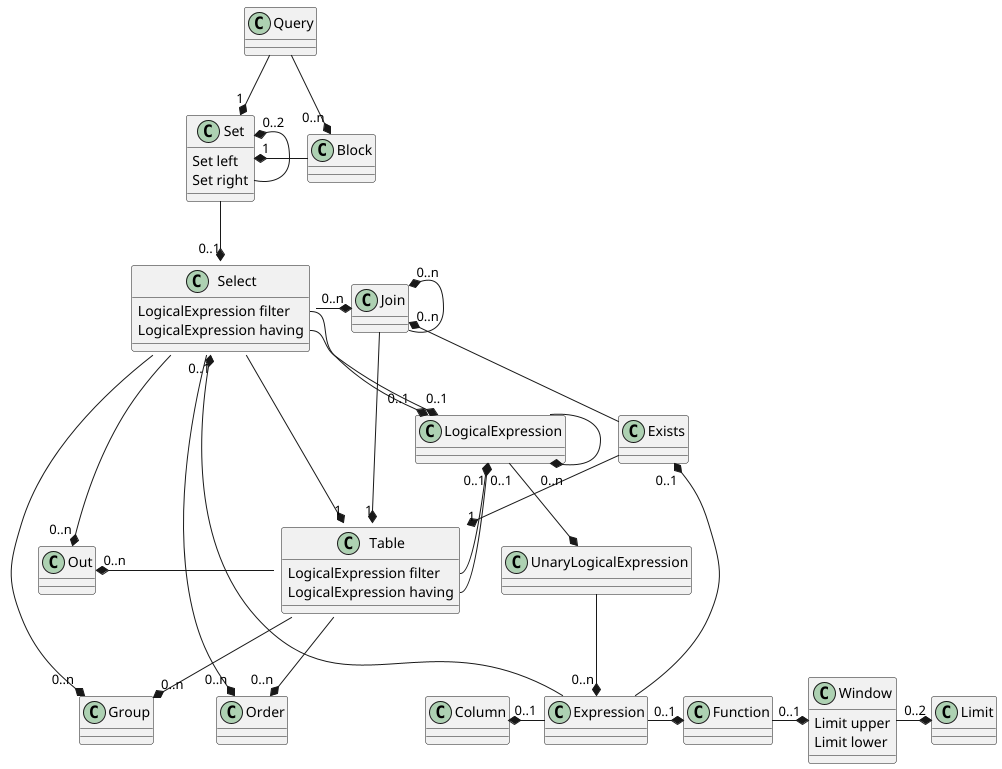
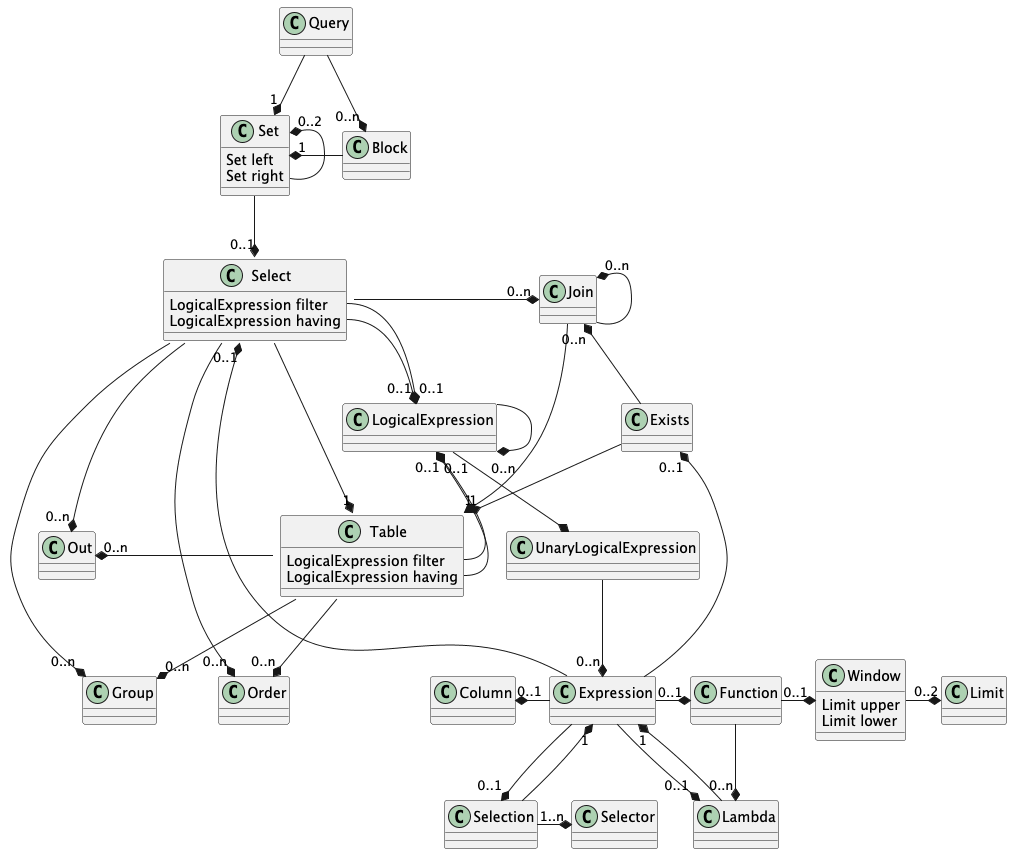
docs: selectors and lambdas in the KQL reference, the language guide and the IQL notes
KQL_EBNF gets the selector and lambda rules and the updated expression and argument rules,
LANGUAGE.md a section on reaching into nested values, IQL.md the Selection, Selector and
Lambda beans and how typing, validation and rendering share the selector chain. Railroad
diagrams and the intermediate model diagram are regenerated.

diff --git a/docs/IQL.md b/docs/IQL.md
@@ -87,6 +87,9 @@ Query
 | `LogicalExpression` | A boolean expression tree (AND/OR/NOT/predicate) |
 | `UnaryLogicalExpression` | A leaf predicate (`left op right`, `EXISTS`, or parenthesised group) |
 | `Function` | A function call with arguments and an optional `Window` definition |
+| `Selection` | A postfix selector chain on an expression: a `base` and its `Selector`s (`t.items@1@sku`) |
+| `Selector` | One step of a selection: a position (`index`), a range (`from`/`to`), or a name (`id`, `name`) |
+| `Lambda` | The parameters and the body of a lambda argument; only ever an argument of a `Function` |
 | `Out` / `Group` / `Order` | SELECT list item / GROUP BY item / ORDER BY item |
 
 Every bean created by `IQL2Bean` is registered in a `Map<Object, RuleContext>` that maps each bean back to its source parse-tree node. This allows all downstream stages (validation, SQL rendering) to produce error messages with precise source-text locations.
@@ -192,12 +195,36 @@ Semantic validation is run after bean construction and before SQL generation. `V
 
 **`FunctionValidator`** — detects structurally invalid expressions: an expression that simultaneously contains an aggregate function (e.g., `SUM`, `COUNT`) and a raw column reference is flagged, as this cannot be correctly classified as either a SELECT item or a HAVING predicate.
 
+**`SelectorValidator`** and **`LambdaValidator`** — check selector chains against the type of the value they select from, and lambda parameters, arity and body against the function that takes them (see [Nested values](#nested-values-selections-and-lambdas)).
+
 **`SchemaValidator`** — verifies all names referenced in the query exist in the configured model/schema:
 - Each `Source` name must correspond to a known entity or a declared CTE block ID
 - Each `Field` alias must refer to a `Source` that is visible in the current scope
 - Each `Field` attribute name must match either a known model attribute or an `OUT` header declared in the referenced entity/CTE
 
 Both validators produce `Violation` objects that carry the offending bean, its source-text `Range`, a human-readable message, and optionally a second `Range` pointing to a related definition. Any violations cause `ValidateException` to be thrown.
+
+
+### Nested values: selections and lambdas
+
+A selector chain is an `Expression` with a `Selection`; a lambda is an `Expression` with a `Lambda`; a
+lambda parameter in a body is an `Expression` with a `parameter`. `KQLQueryMapper` decides by the
+lambda scopes around a bare name whether it is a parameter or an alias (`count(o)`), and refuses a
+parameter named like an alias in sight.
+
+What a step means depends on the type it meets, which the grammar cannot know. `typing/Selectors`
+follows a chain through a `TypeDescriptor` (ARRAY, STRUCT, MAP, JSON) and is used by three consumers:
+`SelectorValidator` reports a step that does not fit, `ExpressionTypeResolver` types the result, and
+the renderer hands the chain, with the type of its base, to the dialect (`SqlDialect.selection`). A
+lambda is typed from its function: `FunctionDefinition` declares the parameter types from the types of
+the other arguments, `LambdaValidator` checks the body, and `SqlSelectRenderer.lambda` renders it with
+the parameters bound to what the dialect makes of them.
+
+A JSON column whose members the catalog declares carries a `shape` on its `TypeDescriptor`; a selection
+that reaches a declared scalar is rendered as the scalar (`jsonScalar` plus a cast), and one that
+reaches a declared list of scalars as a list (`jsonList`) where the dialect has list functions.
+
+The user-facing description is [NESTED.md](NESTED.md); `INTERMEDIATE_MODEL.plantuml` shows the beans.
 
 
 ### Identifier Handling (`Identifier`)

diff --git a/docs/KQL_EBNF.md b/docs/KQL_EBNF.md
@@ -321,7 +321,12 @@ defined in the semantic layer; the second is the `alias` used in all subsequent 
 An `expression` is a value-producing term used throughout the query.
 It covers unary negation (`-expr`, `+expr`), arithmetic (`*`, `/`, `+`, `-`), field references,
 function calls, literals (`INT`, `NUMBER`, `SQ_STRING`, `NULL`), `temporal_literal`,
-and sub-selects. Parentheses can be used to group and override arithmetic precedence.
+lambda parameters (a bare `ID`, only meaningful inside a lambda), and sub-selects. Parentheses can be used to group and override arithmetic precedence.
+
+A `selector` after an expression reaches into a nested value: `c.tags@1`, `c.items@1@sku`,
+`c.doc@a@b`. It binds tighter than every prefix and binary operator, so `-c.a@1` is `-(c.a@1)`. A bare
+name in expression position is a lambda parameter (see [Lambda](#kql-lambda-rule)); everywhere else a
+field is `alias.name`.
 
 Unary `-` negates a value; unary `+` is a no-op included for symmetry. Both bind more tightly than
 binary operators, so `-a * b` means `(-a) * b`. Use parentheses to negate a compound expression:
@@ -343,7 +348,7 @@ collapsing them into a single output row.
 
 ![EBNF Railroad diagram for argument rule](kql/argument.png)
 
-An `argument` is a value passed to a `function`. It is an `expression`, a `logical_expression`, or a
+An `argument` is a value passed to a `function`. It is a `lambda`, an `expression`, a `logical_expression`, or a
 bare identifier — allowing functions to accept computed values, conditions, and entity references
 such as `count(o)`.
 
@@ -358,6 +363,37 @@ FIND products p FETCH case(p.unit_price > 10 AND p.units_in_stock > 5, 1, 0) x
 boolean-predicate alternative), so putting `logical_expression` first would swallow every plain
 argument; a genuine predicate like `p.unit_price > 10` is not a viable `expression` and still reaches
 the second alternative.
+
+## KQL Selector Rule
+
+![EBNF Railroad diagram for selector rule](kql/selector.png)
+
+A `selector` is one postfix step into a list, struct, map or JSON value, written as a single token
+with no whitespace inside it:
+
+| Token | Example | Meaning |
+|---|---|---|
+| `SELECTOR_INT` | `@1`, `@-1`, `@2:`, `@:3`, `@1:3` | a position counted from 1 (from the end when negative), or a range with both ends included |
+| `SELECTOR_ID` | `@name` | a struct field, a map key, a JSON member |
+| `SELECTOR_NAME` | `@'Order Id'` | the same for a name that is no lowercase identifier |
+
+The grammar cannot tell a list position from a map key, because `@1` looks the same on every value:
+the **type** of the value decides, and a step that does not fit the type is refused when the query is
+checked. [NESTED.md](NESTED.md) has the full table, the NULL rules and what each dialect does.
+
+## KQL Lambda Rule
+
+![EBNF Railroad diagram for lambda rule](kql/lambda.png)
+
+A `lambda` is `params -> body`, and only ever an `argument` of a function that takes one, never a
+value of its own: `list_transform(c.scores, x -> x * 2)`, `list_filter(c.items, it -> it@qty > 1)`,
+`list_reduce(c.scores, (acc, x) -> acc + x)`.
+
+Parameters are plain identifiers, one or several in parentheses, and are used by the name they are
+declared with. The body is a `logical_expression`, whose last alternative is a plain `expression`, so
+one rule serves a value (`list_transform`) and a predicate (`list_filter`). A selection from a
+parameter is the usual postfix one: `it@price`. A parameter may not be named like an alias in sight,
+nor like the parameter of the lambda around it.
 
 ## KQL Field Rule
 

diff --git a/docs/LANGUAGE.md b/docs/LANGUAGE.md
@@ -54,3 +54,29 @@ Remember our business question:
 Find customers who have ordered more than 3 Seafood items but have 0 orders for Condiments.
 
 
+## Reaching into nested values
+
+Some columns hold more than one value: a list of tags, a struct with an address, a map of attributes,
+a JSON document. KQL reaches into them with a postfix selector, `@`, and works on lists with a
+lambda, an expression with a named parameter and an arrow:
+
+    FIND orders o
+    FILTER o.items@1@qty > 1 AND 'gift' IN o.tags
+    FETCH o.id,
+          o.items@1@sku first_sku,
+          list_size(o.tags) tags,
+          list_transform(o.scores, x -> x * 10) tenfold
+
+- `o.items@1@sku` is the `sku` of the first element of the list `items`; positions count from 1, and
+  from the end when negative (`@-1` is the last).
+- `list_transform(o.scores, x -> x * 10)` applies the lambda to every element; `list_filter` keeps
+  the elements the lambda accepts, `list_reduce` folds them.
+- A position or a key that is not there gives NULL, not an error.
+- Where the catalog declares the members of a JSON column, `o.doc@n > 0` and `sum(o.doc@a@b@1)` work
+  without a cast.
+- One row per element, to group by what is inside a list ("revenue by sku"), is a generated view that
+  the semantic layer treats like any other entity.
+
+[Nested Values](NESTED.md) is the reference: which selector fits which type, the list functions, what
+each database does, and the flatten views.
+
